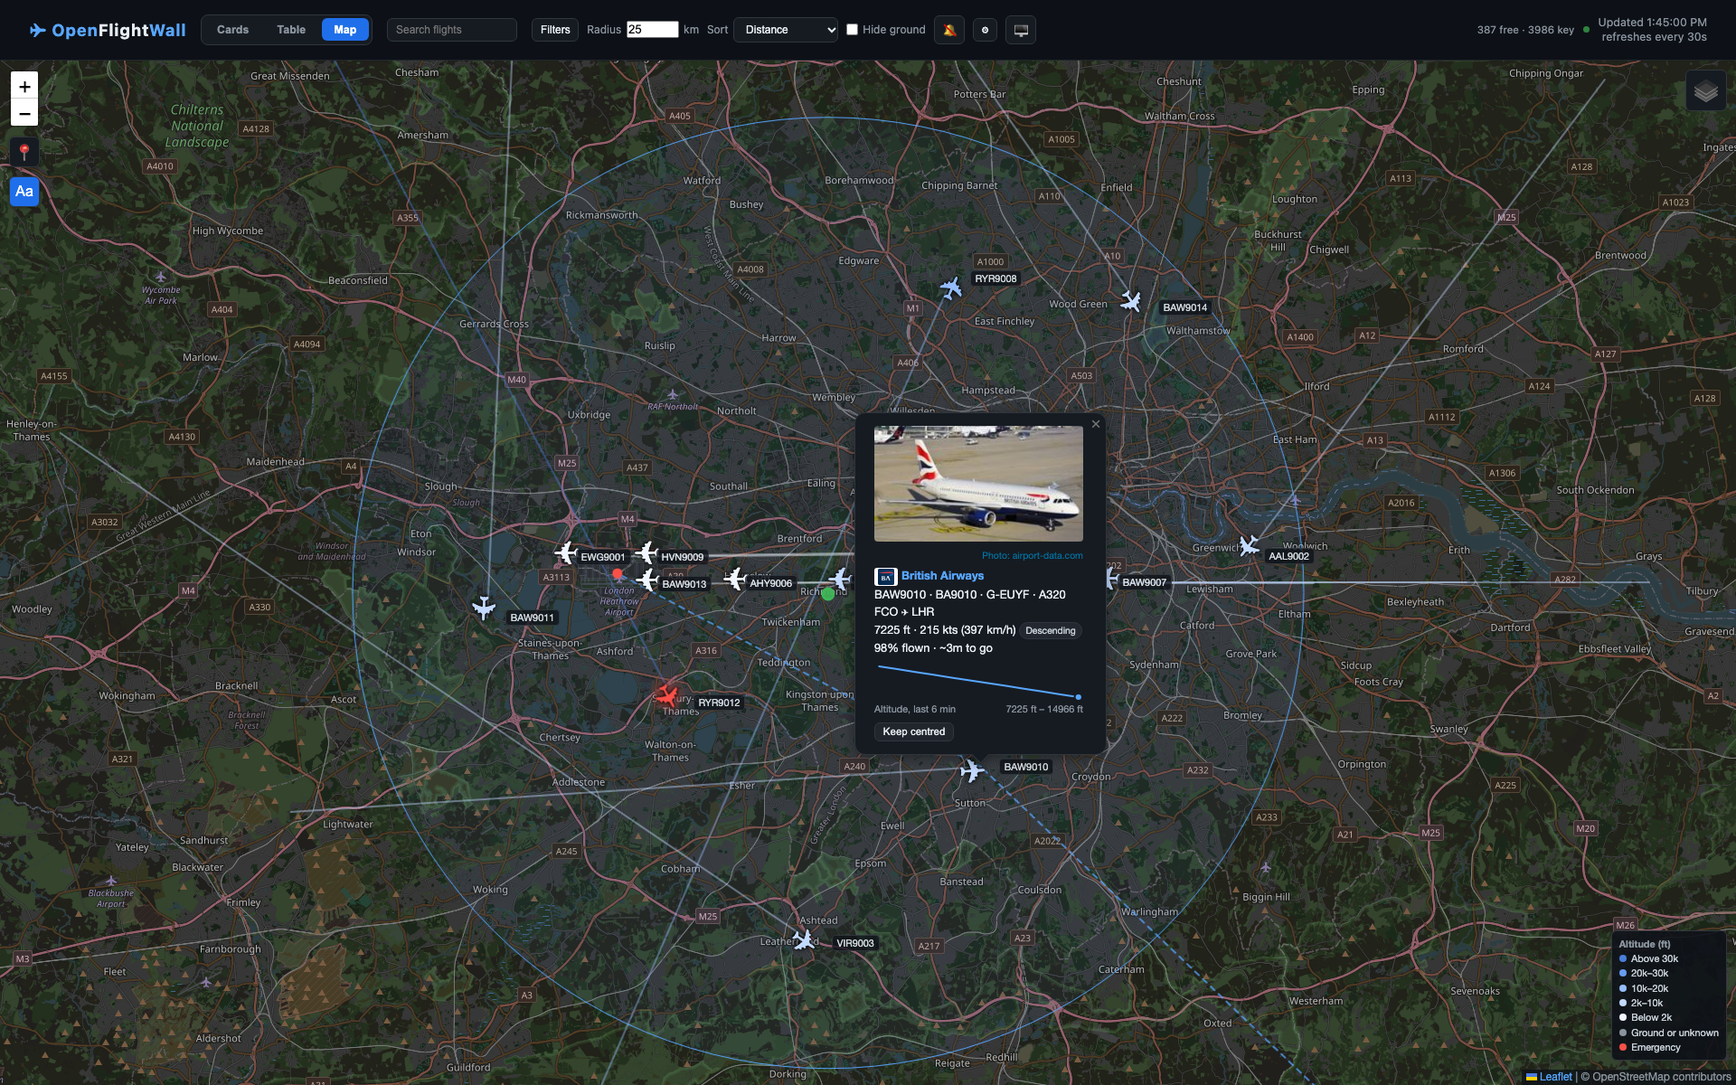
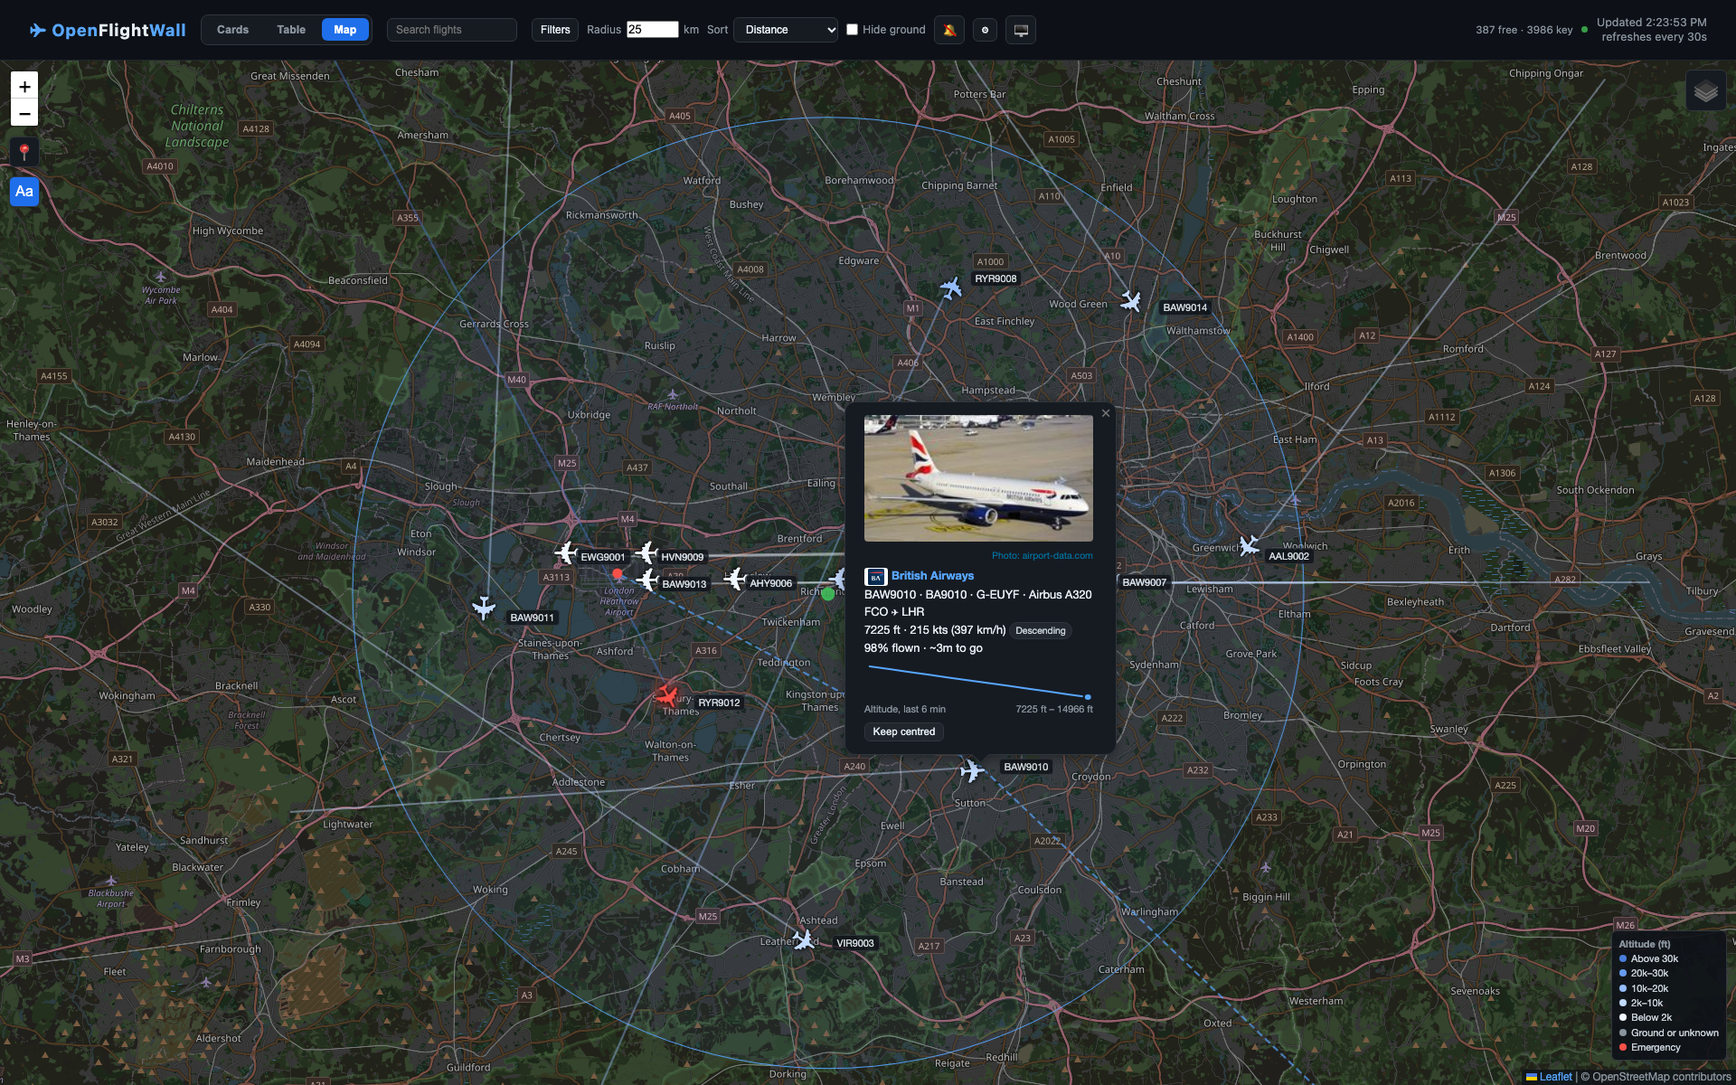
Show full aircraft names; release 1.2.4

Changed region(s): [[0.4688, 0.37, 0.6562, 0.6783], [0.8438, 0.0, 0.9688, 0.0308]]

diff --git a/templates/aircraft_names.js b/templates/aircraft_names.js
@@ -1,0 +1,63 @@
+// Aircraft names, keyed by ICAO type code. Hand-written: the lookups' own type text
+// is inconsistent ("A320 251NSL"), so it isn't used. Codes not listed here are shown
+// as they are. Filters, watchlists and drawings still use the code.
+// templates/index.html includes this file into its main script.
+const AIRCRAFT_NAMES = {
+  // Airbus
+  A306: 'Airbus A300-600', A30B: 'Airbus A300', A310: 'Airbus A310', A318: 'Airbus A318', A319: 'Airbus A319',
+  A320: 'Airbus A320', A321: 'Airbus A321', A19N: 'Airbus A319neo', A20N: 'Airbus A320neo', A21N: 'Airbus A321neo',
+  A332: 'Airbus A330-200', A333: 'Airbus A330-300', A337: 'Airbus BelugaXL', A338: 'Airbus A330-800neo', A339: 'Airbus A330-900neo',
+  A342: 'Airbus A340-200', A343: 'Airbus A340-300', A345: 'Airbus A340-500', A346: 'Airbus A340-600',
+  A359: 'Airbus A350-900', A35K: 'Airbus A350-1000', A388: 'Airbus A380-800', A3ST: 'Airbus Beluga', A400: 'Airbus A400M Atlas',
+  BCS1: 'Airbus A220-100', BCS3: 'Airbus A220-300',
+  // Boeing
+  B712: 'Boeing 717-200', B721: 'Boeing 727-100', B722: 'Boeing 727-200',
+  B732: 'Boeing 737-200', B733: 'Boeing 737-300', B734: 'Boeing 737-400', B735: 'Boeing 737-500', B736: 'Boeing 737-600',
+  B737: 'Boeing 737-700', B738: 'Boeing 737-800', B739: 'Boeing 737-900',
+  B37M: 'Boeing 737 MAX 7', B38M: 'Boeing 737 MAX 8', B39M: 'Boeing 737 MAX 9', B3XM: 'Boeing 737 MAX 10',
+  B741: 'Boeing 747-100', B742: 'Boeing 747-200', B743: 'Boeing 747-300', B744: 'Boeing 747-400', B748: 'Boeing 747-8', B74S: 'Boeing 747SP',
+  B752: 'Boeing 757-200', B753: 'Boeing 757-300', B762: 'Boeing 767-200', B763: 'Boeing 767-300', B764: 'Boeing 767-400',
+  B772: 'Boeing 777-200', B773: 'Boeing 777-300', B77L: 'Boeing 777-200LR', B77W: 'Boeing 777-300ER', B778: 'Boeing 777-8', B779: 'Boeing 777-9',
+  B788: 'Boeing 787-8', B789: 'Boeing 787-9', B78X: 'Boeing 787-10',
+  MD11: 'McDonnell Douglas MD-11', MD82: 'McDonnell Douglas MD-82', MD83: 'McDonnell Douglas MD-83', MD87: 'McDonnell Douglas MD-87',
+  MD88: 'McDonnell Douglas MD-88', MD90: 'McDonnell Douglas MD-90', DC10: 'McDonnell Douglas DC-10',
+  // Other airliners and regional aircraft
+  E170: 'Embraer E170', E75L: 'Embraer E175', E75S: 'Embraer E175', E190: 'Embraer E190', E195: 'Embraer E195',
+  E290: 'Embraer E190-E2', E295: 'Embraer E195-E2', E135: 'Embraer ERJ 135', E145: 'Embraer ERJ 145', E45X: 'Embraer ERJ 145XR',
+  CRJ1: 'Bombardier CRJ100', CRJ2: 'Bombardier CRJ200', CRJ7: 'Bombardier CRJ700', CRJ9: 'Bombardier CRJ900', CRJX: 'Bombardier CRJ1000',
+  AT43: 'ATR 42-300', AT45: 'ATR 42-500', AT46: 'ATR 42-600', AT72: 'ATR 72-200', AT75: 'ATR 72-500', AT76: 'ATR 72-600',
+  DH8A: 'De Havilland Dash 8-100', DH8B: 'De Havilland Dash 8-200', DH8C: 'De Havilland Dash 8-300', DH8D: 'De Havilland Dash 8-400',
+  DHC6: 'De Havilland Twin Otter', B461: 'BAe 146-100', B462: 'BAe 146-200', B463: 'BAe 146-300', RJ85: 'Avro RJ85', RJ1H: 'Avro RJ100',
+  F70: 'Fokker 70', F100: 'Fokker 100', F50: 'Fokker 50', SF34: 'Saab 340', SB20: 'Saab 2000', D328: 'Dornier 328', L410: 'Let L-410',
+  A124: 'Antonov An-124', A148: 'Antonov An-148', A225: 'Antonov An-225', SU95: 'Sukhoi Superjet 100', C919: 'COMAC C919', AJ27: 'COMAC C909', IL76: 'Ilyushin Il-76', IL96: 'Ilyushin Il-96', B190: 'Beechcraft 1900',
+  // Business jets
+  C510: 'Cessna Citation Mustang', C525: 'Cessna CitationJet CJ1', C25A: 'Cessna Citation CJ2', C25B: 'Cessna Citation CJ3', C25C: 'Cessna Citation CJ4',
+  C25M: 'Cessna Citation M2', C550: 'Cessna Citation II', C560: 'Cessna Citation V', C56X: 'Cessna Citation Excel', C680: 'Cessna Citation Sovereign',
+  C68A: 'Cessna Citation Latitude', C700: 'Cessna Citation Longitude', C750: 'Cessna Citation X',
+  CL30: 'Bombardier Challenger 300', CL35: 'Bombardier Challenger 350', CL60: 'Bombardier Challenger 600',
+  CL85: 'Bombardier Challenger 850',
+  GLEX: 'Bombardier Global Express', GL5T: 'Bombardier Global 5000', GL6T: 'Bombardier Global 6000', GL7T: 'Bombardier Global 7500',
+  LJ35: 'Learjet 35', LJ40: 'Learjet 40', LJ45: 'Learjet 45', LJ60: 'Learjet 60', LJ75: 'Learjet 75',
+  G280: 'Gulfstream G280', GLF4: 'Gulfstream G-IV', GLF5: 'Gulfstream G-V', GLF6: 'Gulfstream G650', GA5C: 'Gulfstream G500', GA6C: 'Gulfstream G600',
+  FA50: 'Dassault Falcon 50', FA7X: 'Dassault Falcon 7X', FA8X: 'Dassault Falcon 8X', FA6X: 'Dassault Falcon 6X', F900: 'Dassault Falcon 900', F2TH: 'Dassault Falcon 2000',
+  E35L: 'Embraer Legacy 600', E50P: 'Embraer Phenom 100', E55P: 'Embraer Phenom 300', E545: 'Embraer Legacy 450 / Praetor 500', E550: 'Embraer Legacy 500 / Praetor 600',
+  H25B: 'Hawker 800', HDJT: 'HondaJet', PC24: 'Pilatus PC-24', PRM1: 'Beechcraft Premier I', BE40: 'Beechjet 400',
+  // Light aircraft and turboprops
+  C150: 'Cessna 150', C152: 'Cessna 152', C162: 'Cessna 162 Skycatcher', C172: 'Cessna 172 Skyhawk', C177: 'Cessna 177 Cardinal', C182: 'Cessna 182 Skylane',
+  C206: 'Cessna 206', C208: 'Cessna 208 Caravan', C210: 'Cessna 210 Centurion', C310: 'Cessna 310', C414: 'Cessna 414',
+  P28A: 'Piper PA-28 Cherokee', P28R: 'Piper PA-28R Arrow', P32R: 'Piper Saratoga', PA18: 'Piper Super Cub', PA24: 'Piper Comanche',
+  PA31: 'Piper Navajo', PA34: 'Piper Seneca', PA44: 'Piper Seminole', PA46: 'Piper Malibu',
+  SR20: 'Cirrus SR20', SR22: 'Cirrus SR22', DV20: 'Diamond DA20', DA40: 'Diamond DA40', DA42: 'Diamond DA42', DA62: 'Diamond DA62',
+  BE20: 'Beechcraft King Air 200', B350: 'Beechcraft King Air 350', BE9L: 'Beechcraft King Air 90', BE35: 'Beechcraft Bonanza 35',
+  BE36: 'Beechcraft Bonanza 36', BE58: 'Beechcraft Baron 58', M20P: 'Mooney M20', DR40: 'Robin DR400', Y18T: 'Yakovlev Yak-18T',
+  S22T: 'Cirrus SR22T', RV7: "Van's RV-7", RV8: "Van's RV-8", RV12: "Van's RV-12", C42: 'Ikarus C42', EV97: 'Evektor EV-97', G115: 'Grob G 115',
+  AC11: 'Rockwell Commander 112', BN2T: 'Britten-Norman Turbine Islander', J3: 'Piper J-3 Cub', EUPA: 'Europa', CLON: 'RotorSport Cavalon', GLID: 'Glider',
+  TBM7: 'Daher TBM 700', TBM8: 'Daher TBM 850', TBM9: 'Daher TBM 900', PC6: 'Pilatus PC-6 Porter', PC12: 'Pilatus PC-12',
+  // Helicopters
+  R22: 'Robinson R22', R44: 'Robinson R44', R66: 'Robinson R66', EC20: 'Airbus H120', EC30: 'Airbus H130', EC35: 'Airbus H135', EC45: 'Airbus H145',
+  EC55: 'Airbus H155', EC75: 'Airbus H175', EC25: 'Airbus H225', AS50: 'Airbus H125', AS55: 'Airbus AS355', AS65: 'Airbus AS365 Dauphin',
+  A109: 'Leonardo AW109', A119: 'Leonardo AW119', A139: 'Leonardo AW139', A169: 'Leonardo AW169', A189: 'Leonardo AW189', EH10: 'Leonardo AW101',
+  B06: 'Bell 206', B407: 'Bell 407', B412: 'Bell 412', B429: 'Bell 429', S76: 'Sikorsky S-76', S92: 'Sikorsky S-92', H60: 'Sikorsky Black Hawk', H47: 'Boeing Chinook',
+  // Military
+  C130: 'Lockheed C-130 Hercules', C17: 'Boeing C-17 Globemaster III', K35R: 'Boeing KC-135 Stratotanker', P8: 'Boeing P-8 Poseidon', EUFI: 'Eurofighter Typhoon', F35: 'Lockheed Martin F-35',
+};

diff --git a/templates/index.html b/templates/index.html
@@ -1137,6 +1137,19 @@
       return f.flight_iata ? `${id} · ${f.flight_iata}` : id;
     }
 
+    {% include "aircraft_names.js" %}
+
+    function aircraftName(f) {
+      return AIRCRAFT_NAMES[(f.aircraft_code || '').toUpperCase()] || f.aircraft_code || null;
+    }
+
+    // The name for display, with the code on hover (watchlists and filters use the code).
+    function aircraftHtml(f, missing) {
+      const name = aircraftName(f);
+      if (!name) return missing;
+      return name === f.aircraft_code ? esc(name) : `<span title="Type code ${esc(f.aircraft_code)}">${esc(name)}</span>`;
+    }
+
     // ── Units ── Everything displayed goes through these; the API stays in ft, kts and km.
     const LS_UNITS = 'ofw:units';
     const FT_PER_M = 3.28084, KM_PER_UNIT = { km: 1, mi: 1.609344, NM: 1.852 };
@@ -1303,7 +1316,7 @@
       if (!q) return true;
       const airport = (a) => (a ? [a.iata, a.icao, a.city] : []);
       return [
-        f.callsign, f.flight_iata, f.registration, f.aircraft_code, f.airline_name,
+        f.callsign, f.flight_iata, f.registration, f.aircraft_code, aircraftName(f), f.airline_name,
         f.airline_icao, f.airline_iata, f.icao24, f.squawk, ...airport(f.origin), ...airport(f.destination),
       ].some((v) => (v || '').toUpperCase().includes(q));
     }
@@ -1456,7 +1469,6 @@
 
     function renderCard(f) {
       const airlineName = f.airline_name || f.airline_icao || displayId(f);
-      const aircraftLabel = f.aircraft_name_short || f.aircraft_code || null;
       const bearingLabel = f.bearing_deg != null
         ? `${compassLabel(f.bearing_deg)} ${f.bearing_deg}°` : null;
       const idLine = esc(flightIdText(f)) +
@@ -1490,8 +1502,8 @@
             </div>
           </div>
 
-          <div class="aircraft ${aircraftLabel ? '' : 'unknown'}">
-            ${aircraftLabel ? esc(aircraftLabel) : 'Unknown aircraft'}${regHtml}${phaseChip(f)}
+          <div class="aircraft ${aircraftName(f) ? '' : 'unknown'}">
+            ${aircraftHtml(f, 'Unknown aircraft')}${regHtml}${phaseChip(f)}
           </div>
 
           ${renderRoute(f)}
@@ -1566,7 +1578,7 @@
       { key: 'airline', label: 'Airline', value: (f) => f.airline_name || f.airline_icao || null,
         html: (f) => (f.airline_iata ? `<img src="${logoUrl(f.airline_iata)}" alt="" loading="lazy" onerror="this.style.display='none'">` : '')
           + dash(f.airline_name || f.airline_icao) },
-      { key: 'type', label: 'Type', value: (f) => f.aircraft_code || null, html: (f) => dash(f.aircraft_code) },
+      { key: 'type', label: 'Type', value: aircraftName, html: (f) => aircraftHtml(f, '—') },
       { key: 'reg', label: 'Reg', small: true, value: (f) => f.registration || null, html: (f) => dash(f.registration) },
       { key: 'route', label: 'Route', value: routeText, html: (f) => dash(routeText(f)) },
       { key: 'phase', label: 'Phase', value: flightPhase, html: phaseChip },
@@ -1667,7 +1679,7 @@
       }
 
       const airlineName = f.airline_name || f.airline_icao || displayId(f);
-      const aircraftLabel = f.aircraft_name_short || f.aircraft_code || 'Unknown aircraft';
+      const aircraftLabel = aircraftName(f) || 'Unknown aircraft';
       const idText = flightIdText(f);
       const heroLogoHtml = f.airline_iata
         ? `<img class="hero-logo" src="${logoUrl(f.airline_iata)}" alt="${esc(airlineName)}" loading="lazy" onerror="this.style.display='none'">`
@@ -1886,7 +1898,6 @@
 
     function planePopupHtml(f) {
       const airlineName = f.airline_name || f.airline_icao || displayId(f);
-      const aircraftLabel = f.aircraft_name_short || f.aircraft_code || 'Unknown aircraft';
       const idText = flightIdText(f);
       const regText = f.registration ? ` · ${f.registration}` : '';
       const oCode = (f.origin && (f.origin.iata || f.origin.icao)) || '???';
@@ -1909,7 +1920,7 @@
       return `
         ${photoTag}
         <b>${logoTag}${esc(airlineName)}</b> ${alertBadgesHtml(f)}<br>
-        ${esc(idText)}${esc(regText)} · ${esc(aircraftLabel)}<br>
+        ${esc(idText)}${esc(regText)} · ${aircraftHtml(f, 'Unknown aircraft')}<br>
         ${esc(routeText)}<br>
         ${naHtml(fmtAlt(f.altitude_ft))} · ${esc(speedText)} ${phaseChip(f)}${progText}
         ${altitudeChartHtml(f.icao24)}
@@ -2576,7 +2587,7 @@
     // overhead alert and wall mode, which style it via :is(.overhead, .wall).
     function flightDetailHtml(f) {
       const airlineName = f.airline_name || f.airline_icao || displayId(f);
-      const aircraftLabel = f.aircraft_name_short || f.aircraft_code || 'Unknown aircraft';
+      const aircraftLabel = aircraftName(f) || 'Unknown aircraft';
       const idText = flightIdText(f);
       const logoHtml = f.airline_iata
         ? `<img class="hero-logo" src="${logoUrl(f.airline_iata)}" alt="" onerror="this.style.display='none'">` : '';

diff --git a/site/build.py b/site/build.py
@@ -30,13 +30,15 @@ OUT = ROOT / "_site"
 # changes so these disappear, fail loudly rather than ship a broken demo.
 RADIUS_ANCHOR = "{{ default_radius }}"
 SCRIPT_ANCHOR = "\n  <script>\n"   # the dashboard's main inline script
+NAMES_ANCHOR = '{% include "aircraft_names.js" %}'   # Flask inlines this; so must the demo
 
 
 def build_demo(dest: Path) -> None:
     template = (ROOT / "templates" / "index.html").read_text(encoding="utf-8")
     snapshot = json.loads((SITE / "snapshot.json").read_text(encoding="utf-8"))
+    names = (ROOT / "templates" / "aircraft_names.js").read_text(encoding="utf-8")
 
-    for anchor in (RADIUS_ANCHOR, SCRIPT_ANCHOR):
+    for anchor in (RADIUS_ANCHOR, SCRIPT_ANCHOR, NAMES_ANCHOR):
         if template.count(anchor) != 1:
             raise SystemExit(f"build.py: expected exactly one {anchor!r} in templates/index.html "
                              f"(found {template.count(anchor)}); update the demo build anchors.")
@@ -47,6 +49,7 @@ def build_demo(dest: Path) -> None:
               f'\n  <script src="demo.js"></script>{SCRIPT_ANCHOR}')
     page = (template
             .replace(RADIUS_ANCHOR, str(snapshot["radius_km"]))
+            .replace(NAMES_ANCHOR, names)
             .replace(SCRIPT_ANCHOR, inject)
             .replace("<title>OpenFlightWall</title>", "<title>OpenFlightWall · Demo</title>"))
 

diff --git a/AGENTS.md b/AGENTS.md
@@ -22,7 +22,8 @@ OpenFlightWall/
 ├── .env.example        # Committed template for optional OpenSky OAuth creds
 ├── .env                # Local secrets — git-ignored, never committed (optional)
 └── templates/
-    └── index.html      # Single-file frontend (vanilla HTML/CSS/JS + Leaflet CDN)
+    ├── index.html      # Single-file frontend (vanilla HTML/CSS/JS + Leaflet CDN)
+    └── aircraft_names.js  # Type code → name table, included into index.html's script
 ```
 
 Location and radius are chosen in the browser and passed to `/api/flights` as query params. `.env` (git-ignored) optionally holds OpenSky OAuth credentials; `.env.example` is the committed template.
@@ -95,6 +96,7 @@ Other backend facts:
 
 - **Views**: `setView('cards'|'table'|'map', thenDo)`; map uses Leaflet + OpenStreetMap tiles. `thenDo` runs once the map has been resized.
 - **Position history**: `recordHistory()` runs on every poll in both `loadFlights` branches, into `flightHistory` (icao24 → `{points: [{lat, lon, alt, t}], seen}`, capped at `HISTORY_POINTS`, forgotten after `HISTORY_FORGET_MS`). Trails (`m.path`) and `altitudeChartHtml()` read it via `historyPoints()`, so they survive view switches and filtering. A radar view should reuse it.
+- **Aircraft names**: `AIRCRAFT_NAMES` in `templates/aircraft_names.js` is a hand-written table of ICAO type code → display name. `index.html` pulls it in with a Jinja `{% include %}`, so it is still one page with no extra request, and `site/build.py` inlines it the same way. `aircraftName(f)` falls back to the code, and `aircraftHtml(f, missing)` adds the code on hover. Display and search use the name; `aircraftClass()`, filters and `type:` watchlist entries keep using `aircraft_code`. Don't use the lookups' `Type` text, which is inconsistent (`A320 251NSL`).
 - **Altitude colours**: `altitudeColor(f)` uses `ALTITUDE_BANDS`, a one-hue ordinal ramp validated against the dark map. Don't add red (reserved for `isEmergency`) or unrelated hues: bands that differ only by hue fail colour-blindness checks. `legendHtml()` follows the units.
 - **Map labels**: `updatePlaneLabel(m)` / `toggleMapLabels()`, the Aa control, stored in `ofw:mapLabels`, off by default. Tooltip text goes through `esc()`.
 - **Keep centred**: `centredIcao`, `toggleCentred()`, `stopCentred()`. `glideFrame()` pans to the plane (`renderMap()` does in reduced motion). Stops on drag, Esc, ✕, `applyUserLocation()` or when the plane leaves the list. **Any button that rebuilds itself on click must call `event.stopPropagation()`**: once its element is detached, Leaflet treats the click as a map click, and that sets the user's location.
@@ -136,7 +138,7 @@ Other backend facts:
 1. Read the relevant file(s) before editing.
 2. Preserve the zero-cost constraint in all suggestions.
 3. Keep the cache mechanisms intact when modifying `fetch_flights()` or `get_route()`.
-4. For frontend changes, keep everything in `index.html` — no build step, no npm (Leaflet is loaded from CDN).
+4. For frontend changes, keep everything in `index.html` — no build step, no npm (Leaflet is loaded from CDN). The exception is large data tables such as `templates/aircraft_names.js`, which are included into the page.
 5. Test by running `uv run python app.py` and hitting `/api/flights?lat=..&lon=..&radius=..`.
 6. **Update `CHANGELOG.md`** for any user-facing change — add an entry under `## [Unreleased]` (create the section if it's missing), using the [Keep a Changelog](https://keepachangelog.com/en/1.1.0/) categories (Added/Changed/Fixed/Removed/Security). When releasing, `[Unreleased]` gets renamed to the new version + date (see [Release Process](#release-process); the release workflow copies that section into the GitHub Release notes).
 
@@ -175,7 +177,7 @@ Releases follow [Semantic Versioning](https://semver.org/): **patch** (`1.2.1`) 
    Pushing to `main` alone builds nothing; the tag is what releases.
 7. **Watch the workflows** (Actions tab):
    - *Docker Publish* → version check → multi-arch image to Docker Hub (`X.Y.Z`, `X.Y`, `X`, `latest`) → **`release` job creates the GitHub Release** (tags containing `-`, e.g. `v2.0.0-beta.1`, become pre-releases).
-   - *GitHub Pages* redeploys the website/demo if `site/`, `templates/index.html` or `docs/screenshots/` changed in the merge.
+   - *GitHub Pages* redeploys the website/demo if `site/`, `templates/` or `docs/screenshots/` changed in the merge.
 8. **Verify.** The release appears at github.com/dilshanonline/OpenFlightWall/releases with the right notes; `docker pull dilshanonline/openflightwall:X.Y.Z` works; the website's version badge shows `vX.Y.Z`.
 
 **If something goes wrong:**
@@ -189,11 +191,11 @@ Running apps notice the new release within about a day (server cache 6 h, browse
 
 - Live at `https://dilshanonline.github.io/OpenFlightWall/` (landing page) and `/demo/` (replay demo). Pages can't run Flask, and OpenSky only sends CORS headers for its own origin, so the demo **replays a recorded snapshot** instead of fetching live data.
 - `site/index.html` — hand-written landing page (no framework). `site/demo.js` — replay engine + demo banner; sets `window.OFW_DEMO = {center, pollMs, flights(loc, radiusKm)}`, advancing airborne planes along their heading (6-minute loop) and recomputing distance/bearing. `site/snapshot.json` — the recording.
-- `site/build.py` (stdlib) writes `_site/` (git-ignored): copies the landing page and `docs/screenshots/`, and renders `templates/index.html` into `_site/demo/index.html` by replacing `{{ default_radius }}` and injecting the snapshot JSON + `demo.js` before the main `<script>`. It **fails loudly** if those anchors change. Preview with `python3 site/build.py --serve` (http://localhost:8000/); opening `site/index.html` directly shows no images and no demo, because those only exist in `_site/`.
+- `site/build.py` (stdlib) writes `_site/` (git-ignored): copies the landing page and `docs/screenshots/`, and renders `templates/index.html` into `_site/demo/index.html` by replacing `{{ default_radius }}`, inlining `aircraft_names.js` and injecting the snapshot JSON + `demo.js` before the main `<script>`. It **fails loudly** if those anchors change. Preview with `python3 site/build.py --serve` (http://localhost:8000/); opening `site/index.html` directly shows no images and no demo, because those only exist in `_site/`.
 - **Demo hooks in `templates/index.html`** — `const DEMO = window.OFW_DEMO || null`; `POLL_MS` uses `DEMO.pollMs`; `start()` calls `startDemo()` (adds `body.demo`, sound/notifications off, no config/update/saved-location calls, `setLocation(DEMO.center…)`); `loadFlights()` takes `DEMO.flights(...)` instead of `/api/flights`. `body.demo` hides ⚙ (so Notify, Overhead alert, Save location, units and the watchlist too) and the credits badge. When editing `start()`/`loadFlights()`, keep these branches working and rebuild the site to check the demo.
 - **Screenshots** in `docs/screenshots/` are taken from the demo page so they only show sample routes. `notification.png` (a real macOS notification) and the article covers predate this.
 - Refresh the recording: run the dev server, then `python3 site/capture_snapshot.py [--lat --lon --radius --label]` (keeps airborne flights only and strips routes and flight numbers). Add hand-written sample callsigns and routes afterwards, with airport details not taken from adsbdb, and keep the demo banner's "samples" wording. See Hard Constraints.
-- `.github/workflows/pages.yml` builds and deploys on pushes to `main` touching `site/**`, `templates/index.html` or `docs/screenshots/**` (plus manual dispatch). Requires Settings → Pages → Source: **GitHub Actions** (one-time).
+- `.github/workflows/pages.yml` builds and deploys on pushes to `main` touching `site/**`, `templates/**` or `docs/screenshots/**` (plus manual dispatch). Requires Settings → Pages → Source: **GitHub Actions** (one-time).
 
 ## Running / Testing
 

diff --git a/README.md b/README.md
@@ -222,7 +222,7 @@ All sources are **free**. Only OpenSky optionally uses a (free) account for a hi
 | Airline name | ICAO callsign prefix | Shown as-is (e.g. `UAL`) |
 | Airline logo | Kiwi.com CDN | Shown by IATA code; hidden if none exists |
 | Callsign + flight number | OpenSky + adsbdb.com | e.g. `ACA850 · AC850` (IATA flight number shown when known) |
-| Aircraft type | hexdb.io | ICAO type code (e.g. `B738`) |
+| Aircraft type | hexdb.io + built-in names | Full name for common types (e.g. `B738` shows as Boeing 737-800), otherwise the ICAO type code |
 | Origin → Destination | adsbdb.com | Airport codes + city + country flag; "Route unavailable" if unknown |
 | Flight progress + ETA | Computed | Progress bar, km flown/remaining, rough "lands in ~" estimate (great-circle, constant speed) |
 | Aircraft photo & registration | adsbdb.com | Photo banner + registration/owner/manufacturer where available |

diff --git a/CHANGELOG.md b/CHANGELOG.md
@@ -7,6 +7,11 @@ and this project adheres to [Semantic Versioning](https://semver.org/).
 
 ## [Unreleased]
 
+## [1.2.4] - 2026-11-05
+
+### Added
+- **Full aircraft names.** Cards, the table, map popups, the flight banner, the overhead alert and wall mode now show names like Airbus A321neo and Boeing 747-8 instead of `A21N` and `B748`, for about 250 common types. Other types still show their code. Hover over a name on a card, popup or table row to see its code. Search finds both, and watchlist entries like `type:A388` still use the code.
+
 ## [1.2.3] - 2026-11-05
 
 ### Added
